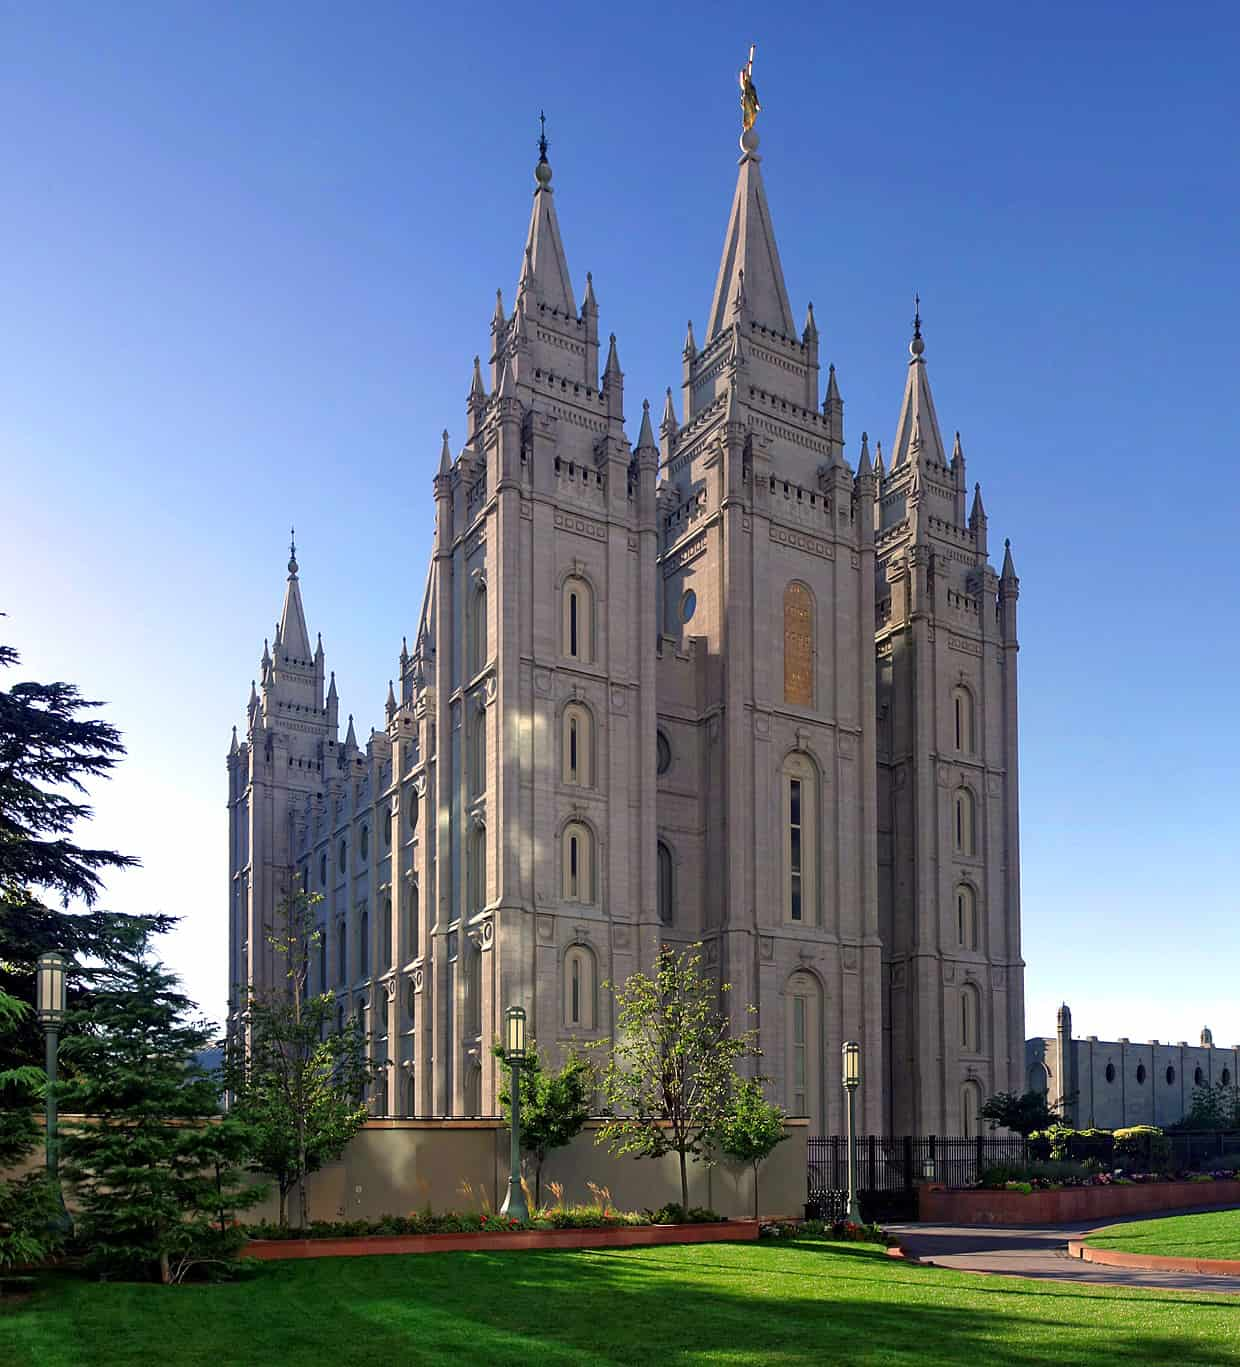
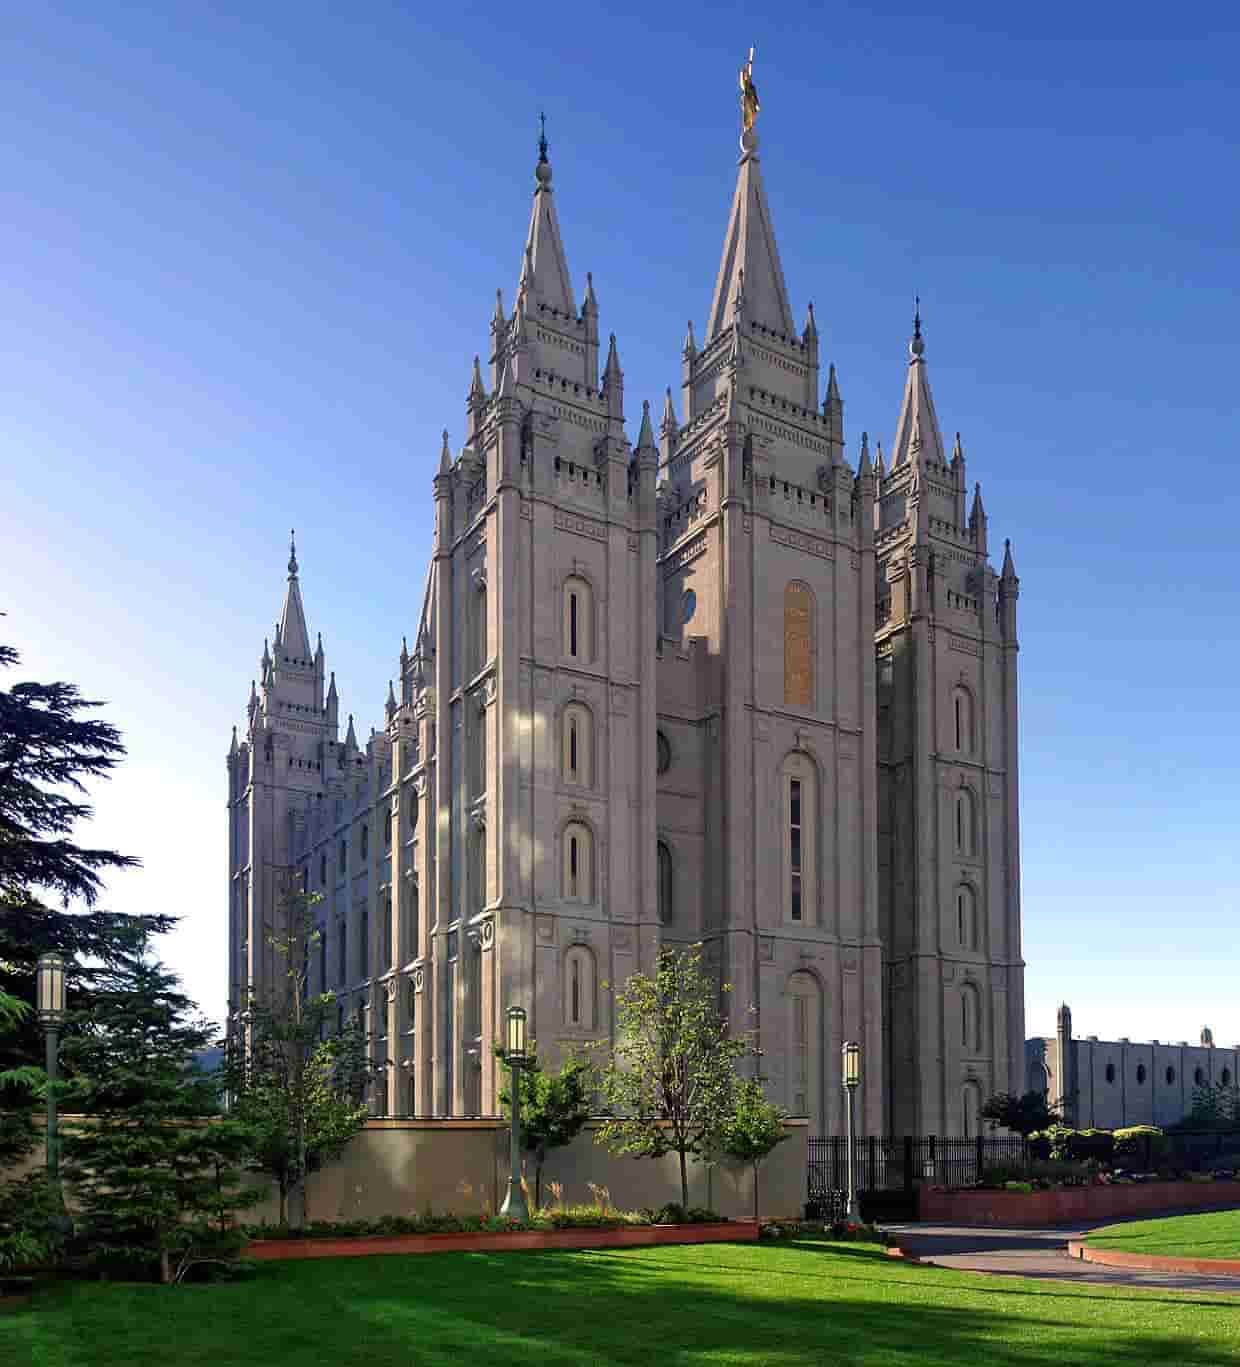
fixed image size again

diff --git a/styles/temples.css b/styles/temples.css
@@ -21,6 +21,9 @@ header {
     margin-bottom: 1rem;
 }
 
+ul {
+    list-style-type: none;
+}
 
 nav ul {
     list-style-type: none;
